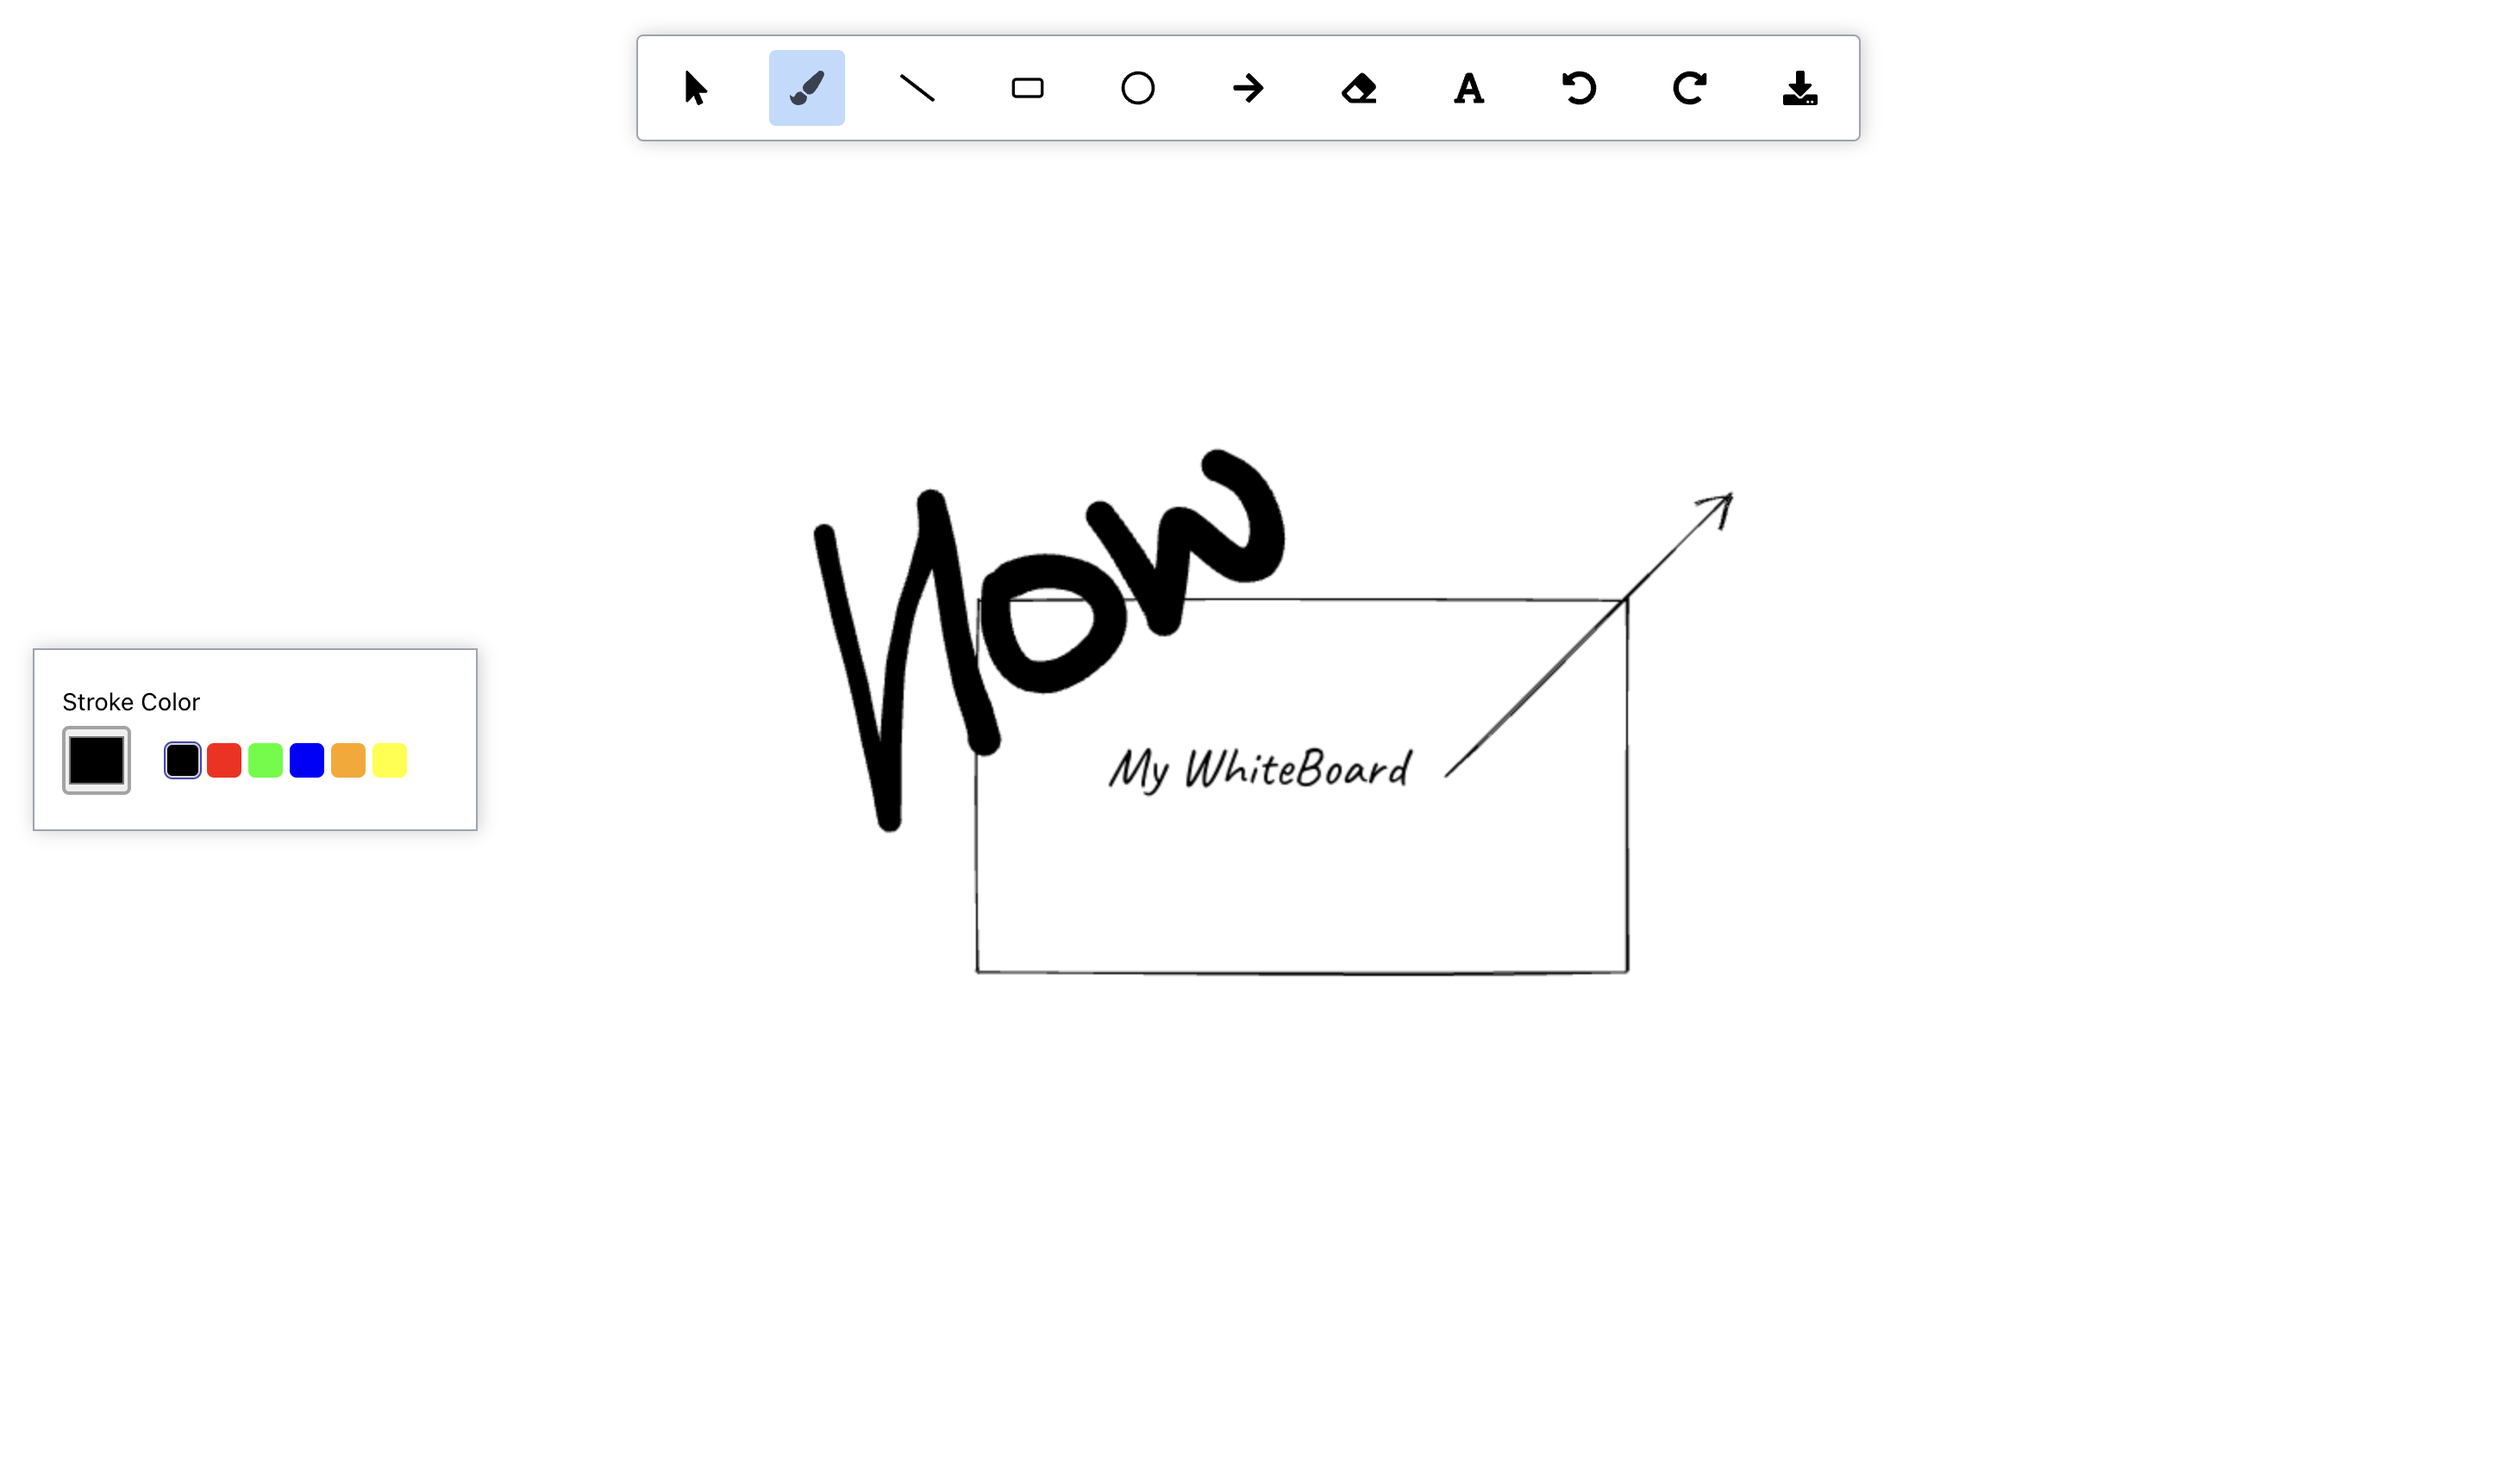
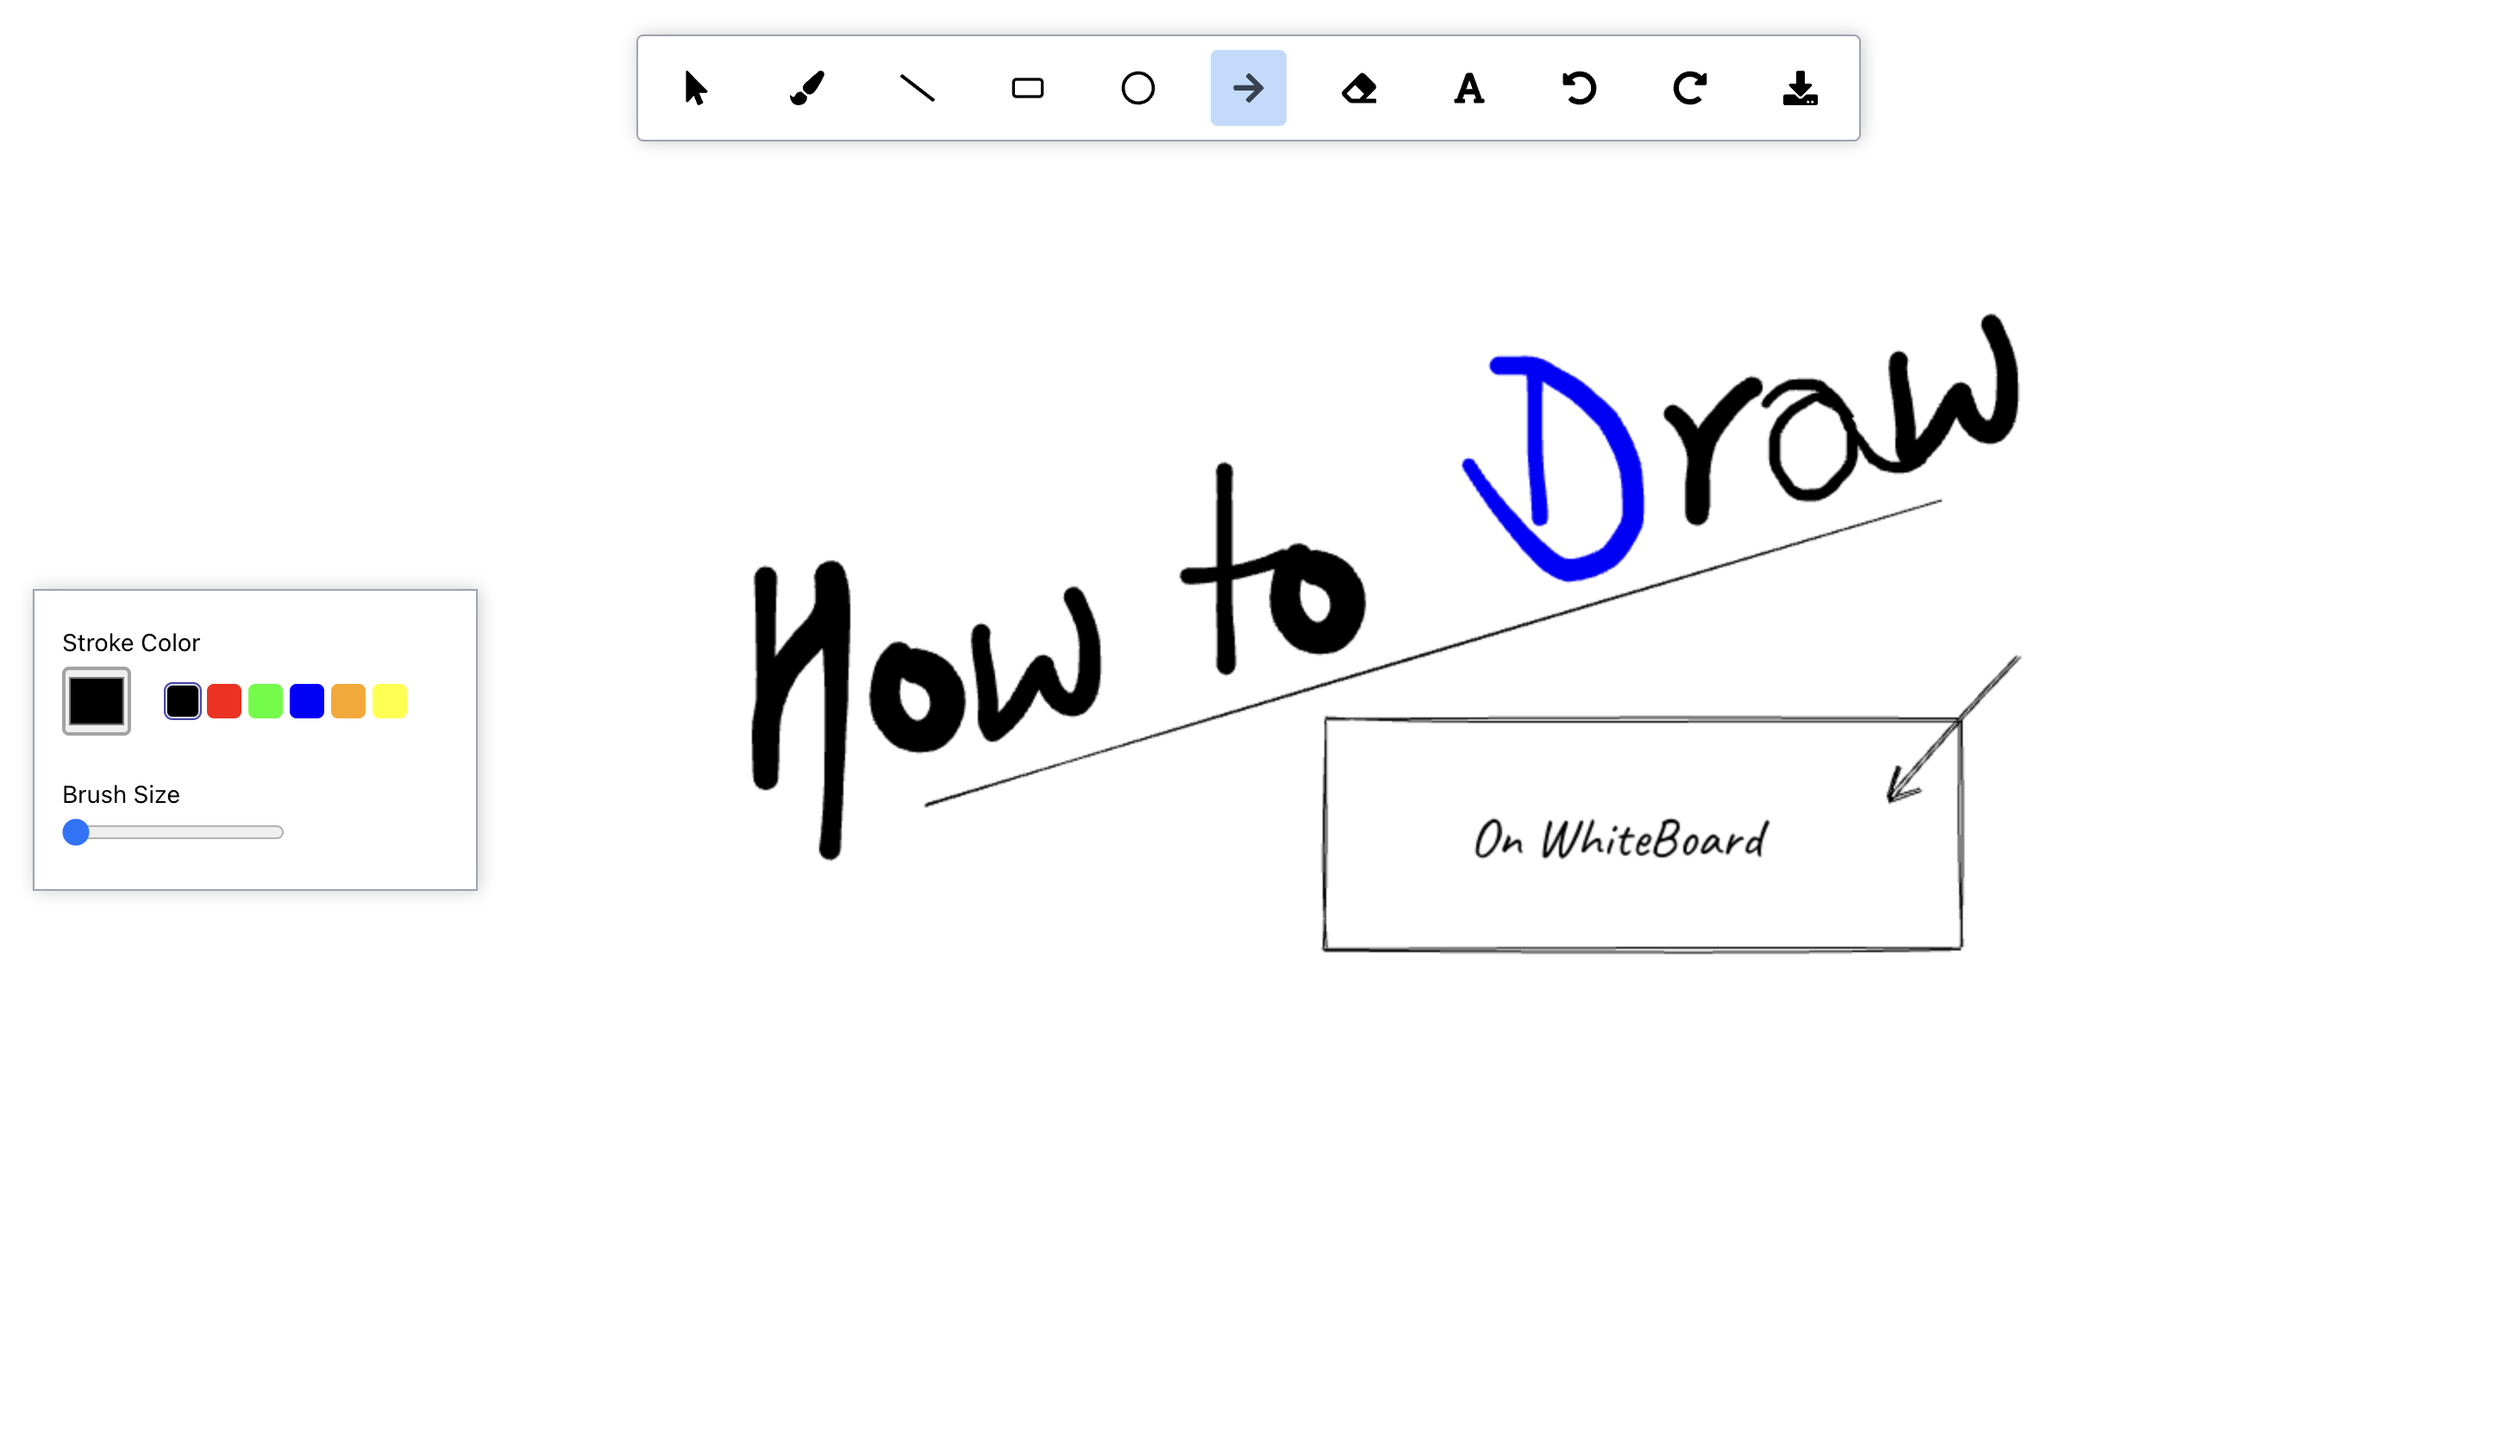
updated readme.md and added brush resizer

diff --git a/src/store/BoardProvider.js b/src/store/BoardProvider.js
@@ -75,7 +75,7 @@ const boardReducer = (state, action) => {
             { x: clientX, y: clientY },
           ];
           newElements[index].path = new Path2D(
-            getSvgPathFromStroke(getStroke(newElements[index].points))
+            getSvgPathFromStroke(getStroke(newElements[index].points, { size: newElements[index].size || 5 }))
           );
           return {
             ...state,
@@ -210,7 +210,7 @@ const boardReducer = (state, action) => {
               y: point.y + deltaY,
             }));
             updatedElement.path = new Path2D(
-              getSvgPathFromStroke(getStroke(updatedElement.points))
+              getSvgPathFromStroke(getStroke(updatedElement.points, { size: element.size || 5 }))
             );
           } else if ([TOOL_ITEMS.LINE, TOOL_ITEMS.RECTANGLE, TOOL_ITEMS.CIRCLE, TOOL_ITEMS.ARROW].includes(element.type)) {
             updatedElement.roughEle = createElement(

diff --git a/src/components/Toolbox/index.js b/src/components/Toolbox/index.js
@@ -99,7 +99,7 @@ const Toolbox = () => {
           <input
             type="range"
             min={activeToolItem === TOOL_ITEMS.TEXT ? 12 : 1}
-            max={activeToolItem === TOOL_ITEMS.TEXT ? 64 : 10}
+            max={activeToolItem === TOOL_ITEMS.TEXT ? 64 : (activeToolItem === TOOL_ITEMS.BRUSH ? 15 : 10)}
             step={1}
             value={size}
             onChange={(event) => changeSize(activeToolItem, event.target.value)}

diff --git a/src/utils/element.js b/src/utils/element.js
@@ -43,9 +43,10 @@ export const createElement = (
       const brushElement = {
         id,
         points: [{ x: x1, y: y1 }],
-        path: new Path2D(getSvgPathFromStroke(getStroke([{ x: x1, y: y1 }]))),
+        path: new Path2D(getSvgPathFromStroke(getStroke([{ x: x1, y: y1 }], { size: size || 5 }))),
         type,
         stroke,
+        size,
       };
       return brushElement;
     }

diff --git a/src/store/ToolboxProvider.js b/src/store/ToolboxProvider.js
@@ -27,6 +27,7 @@ function toolboxReducer(state, action) {
 const initialToolboxState = {
   [TOOL_ITEMS.BRUSH]: {
     stroke: COLORS.BLACK,
+    size: 5,
   },
   [TOOL_ITEMS.LINE]: {
     stroke: COLORS.BLACK,

diff --git a/src/constants.js b/src/constants.js
@@ -65,6 +65,7 @@ export const STROKE_TOOL_TYPES = [
   TOOL_ITEMS.TEXT,
 ];
 export const SIZE_TOOL_TYPES = [
+  TOOL_ITEMS.BRUSH,
   TOOL_ITEMS.LINE,
   TOOL_ITEMS.ARROW,
   TOOL_ITEMS.RECTANGLE,

diff --git a/README.md b/README.md
@@ -34,7 +34,8 @@
 ## 🚀 How to run it
 
 ```bash
-git clone 
+git clone https://github.com/wasimrehman05/whiteboard.git
+cd whiteboard
 npm install
 npm start
 ```
@@ -108,11 +109,13 @@ whiteboard-tutorial/
 
 ## 🚧 What I might add later
 
-- Different layers for organizing drawings
-- More shape options
-- Better phone/tablet support
-- Save and load your drawings
-- Let multiple people draw together
+Here are some cool features I'm thinking about adding when I have more time:
+- **Layers system** - Organize drawings into different layers for better control
+- **More shapes** - Add triangles, stars, polygons, and other geometric shapes  
+- **Mobile optimization** - Make it work smoothly on phones and tablets
+- **Save/load functionality** - Let users save their drawings and load them later
+- **Real-time collaboration** - Multiple people drawing together at the same time
+- **Element rotation** - Rotate shapes, text, and other elements to any angle
 
 ## Built with ❤ using
 
